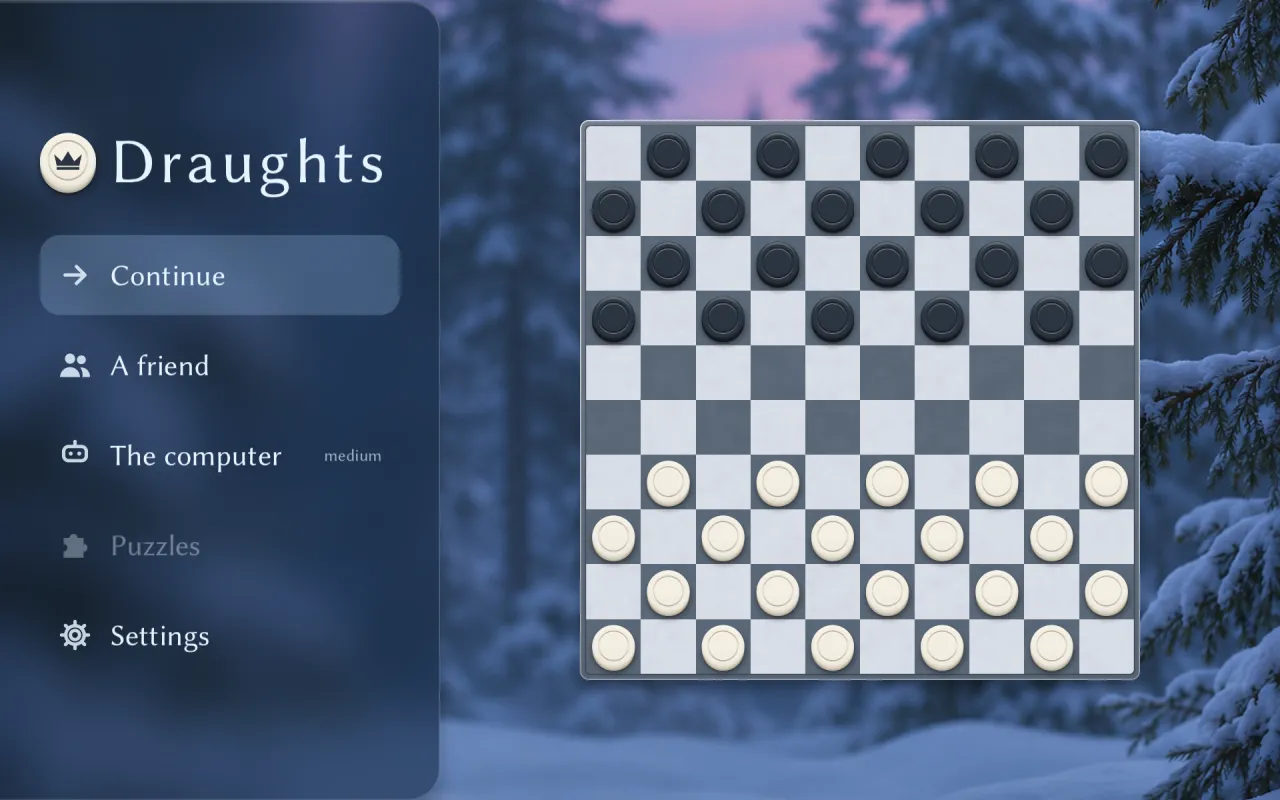
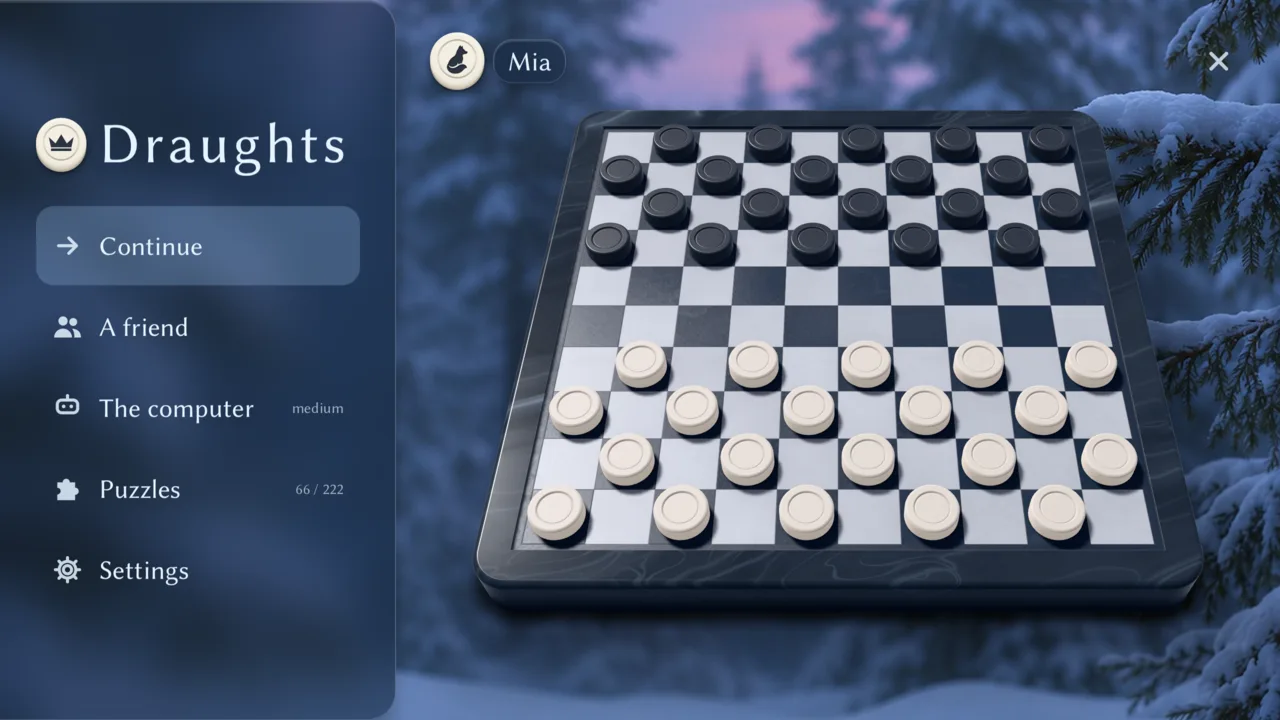
Show the store's first two shots in the README and give its performance numbers for 2D and 3D

diff --git a/README.md b/README.md
@@ -4,8 +4,8 @@ A calm draughts game for Android tablets and phones. Play a friend or the comput
 solve puzzles. No ads, no accounts, no tracking, and no network.
 
 <p align="center">
-  <img src="docs/images/home-winter.webp" alt="Home on a tablet over the winter photograph: continue, a friend, the computer, puzzles, and settings beside the board" width="49%" />
-  <img src="docs/images/game-autumn.webp" alt="A game in progress on a tablet over the autumn photograph, a selected piece and the square it can move to" width="49%" />
+  <img src="docs/images/home-winter.webp" alt="Home on a tablet over the winter photograph: continue, a friend, the computer, puzzles, and settings beside the 3D stone board" width="49%" />
+  <img src="docs/images/game-autumn.webp" alt="A game on the flat board over the autumn photograph: a selected piece that must capture two, and the squares of its capture" width="49%" />
 </p>
 
 ## Features
@@ -40,18 +40,24 @@ Measured numbers per device are in
 
 ### Performance
 
-**Galaxy Tab A11+** (1920 × 1200, release build, 2026-11-09):
+The release at rest, idle 20 to 30 s (2026-11-09):
 
-- Idle at home: 0.05% of one CPU core
-- Memory at home: 134 MB (PSS)
-- Of that, 58 MB is the GPU driver's swapchain (six screen-sized images, its minimum)
-  and 36 MB the app's own GPU memory
+| Device | Board | Idle CPU (one core) | Memory (PSS) |
+| --- | --- | --- | --- |
+| Galaxy Tab A11+, 1920 × 1200 | 2D, home | 0.03% | 145 MB |
+| Galaxy Tab A11+ | 3D, a game | 0.3% | 287 MB |
+| Pixel 7a, 2400 × 1080 | 3D, a game | 0.05% | 345 MB |
+| Galaxy A33 5G, 2400 × 1080 | 2D | 0.00% | 107 MB |
+| Galaxy A33 5G | 3D | 0.00% | 309 MB |
 
-**Pixel 7a** (1080 × 2400, development build, 2026-11-08):
+The 2D board draws in one full-screen pass and keeps up with a 90 Hz display even on the
+Galaxy A33. The 3D board, while it moves:
 
-- Idle at home: 0.1% of one CPU core
-- Memory: 146 MB at home, 161 MB in a game (PSS)
-- Graphics memory: 116 MB
+- **Galaxy Tab A11+** (90 Hz): the pass about 11 ms, with 4× MSAA 3 ms more
+- **Pixel 7a** (60 Hz): the pass 13 to 14 ms, presented every 16.6 ms
+- **Galaxy A33 5G** (90 Hz): the pass 19 ms, about 39 fps; the weakest tried
+
+The 3D board's extra memory is GPU memory: 180 to 230 MB against about 36 MB in 2D.
 
 The app draws a frame only when something changes (a touch, a moving piece, a clock's
 change). Otherwise it draws nothing and waits for input, waking about once a second on
